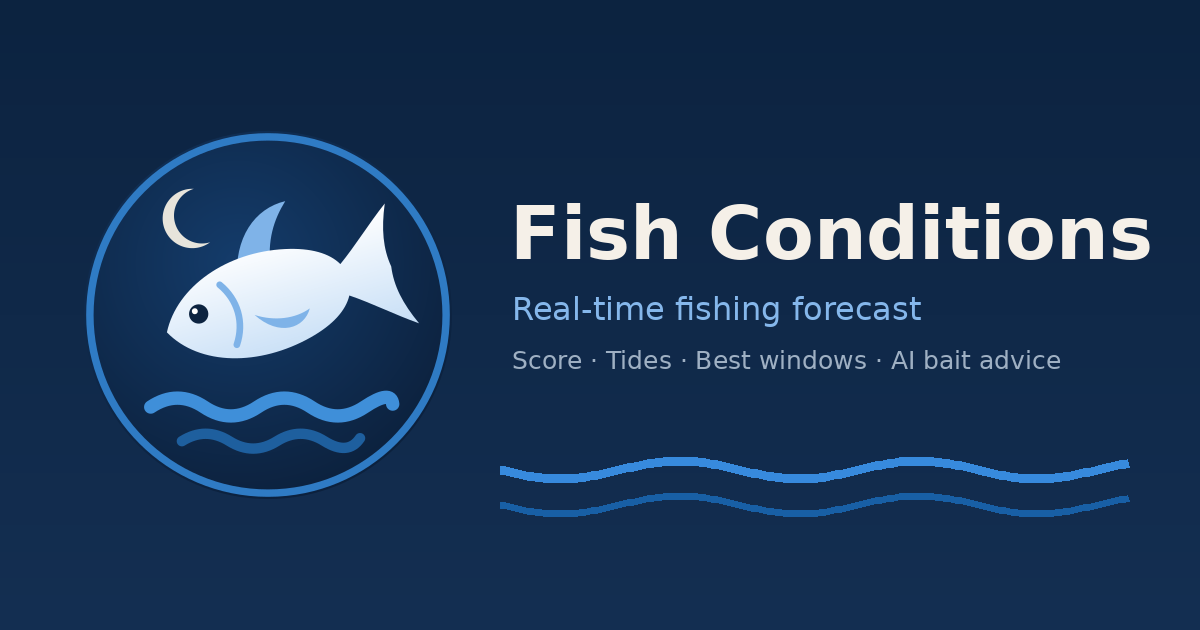
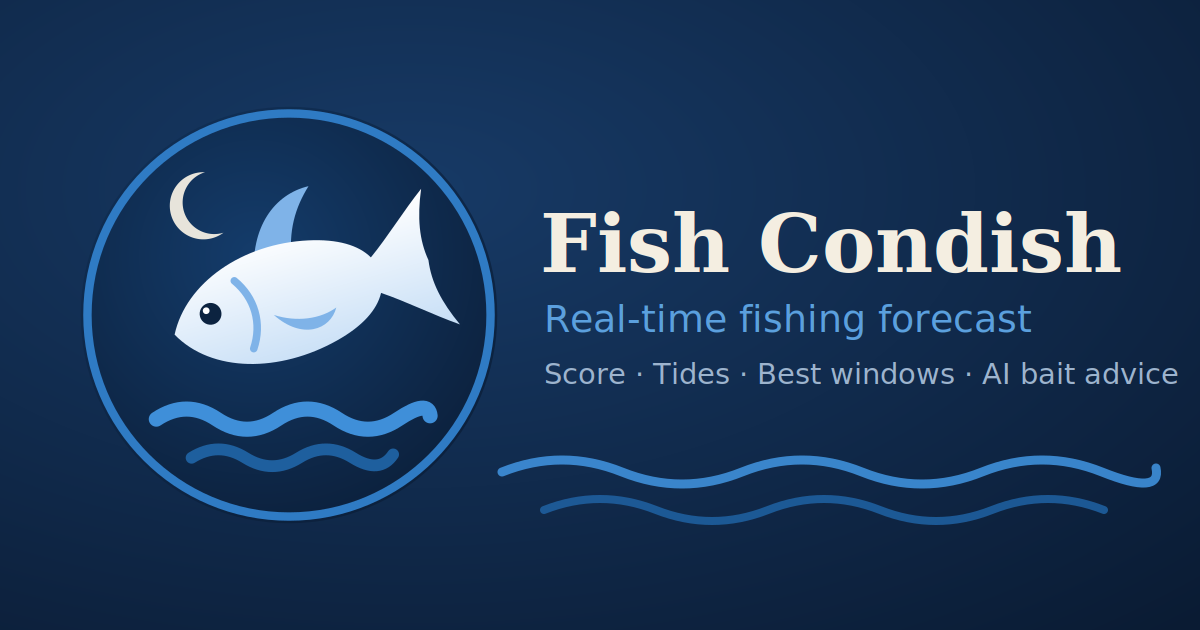
Rebrand public assets to Fish Condish; new OG share card

diff --git a/public/index.html b/public/index.html
@@ -4,17 +4,17 @@
     <meta charset="utf-8" />
     <meta name="viewport" content="width=device-width, initial-scale=1" />
     <meta property="og:type" content="website" />
-    <meta property="og:title" content="Fish Conditions — Real-Time Fishing Forecast" />
+    <meta property="og:title" content="Fish Condish — Real-Time Fishing Forecast" />
     <meta property="og:description" content="Live fishing score, best-time windows, tides, solunar tables, species bite forecasts, and AI-powered bait advice for any spot in the US." />
-    <meta property="og:image" content="https://cast-conditions.vercel.app/og.png" />
-    <meta property="og:url" content="https://cast-conditions.vercel.app" />
+    <meta property="og:image" content="https://fishcondish.com/og.png" />
+    <meta property="og:url" content="https://fishcondish.com" />
     <meta name="twitter:card" content="summary_large_image" />
-    <meta name="twitter:title" content="Fish Conditions — Real-Time Fishing Forecast" />
+    <meta name="twitter:title" content="Fish Condish — Real-Time Fishing Forecast" />
     <meta name="twitter:description" content="Live fishing score, tides, best-time windows, and AI bait advice for any US fishing spot." />
-    <meta name="twitter:image" content="https://cast-conditions.vercel.app/og.png" />
+    <meta name="twitter:image" content="https://fishcondish.com/og.png" />
     <meta name="theme-color" content="#0C2340" />
     <meta name="description" content="Real-time fishing conditions — wind, tides, moon phase, water temp, and AI fishing guide." />
-    <title>Fish Conditions — Fishing Dashboard</title>
+    <title>Fish Condish — Fishing Dashboard</title>
     <link rel="manifest" href="%PUBLIC_URL%/manifest.json" />
   </head>
   <body>

diff --git a/public/sw.js b/public/sw.js
@@ -1,8 +1,8 @@
-// Fish Conditions service worker v2 — offline app shell only.
+// Fish Condish service worker v3 — offline app shell only.
 // v1 intercepted cross-origin API calls (weather/tides), which could break
 // data loading on some setups. v2 caches ONLY same-origin app files and
 // never touches API requests.
-const CACHE = 'fish-conditions-v2';
+const CACHE = 'fish-condish-v3';
 
 self.addEventListener('install', () => self.skipWaiting());
 
